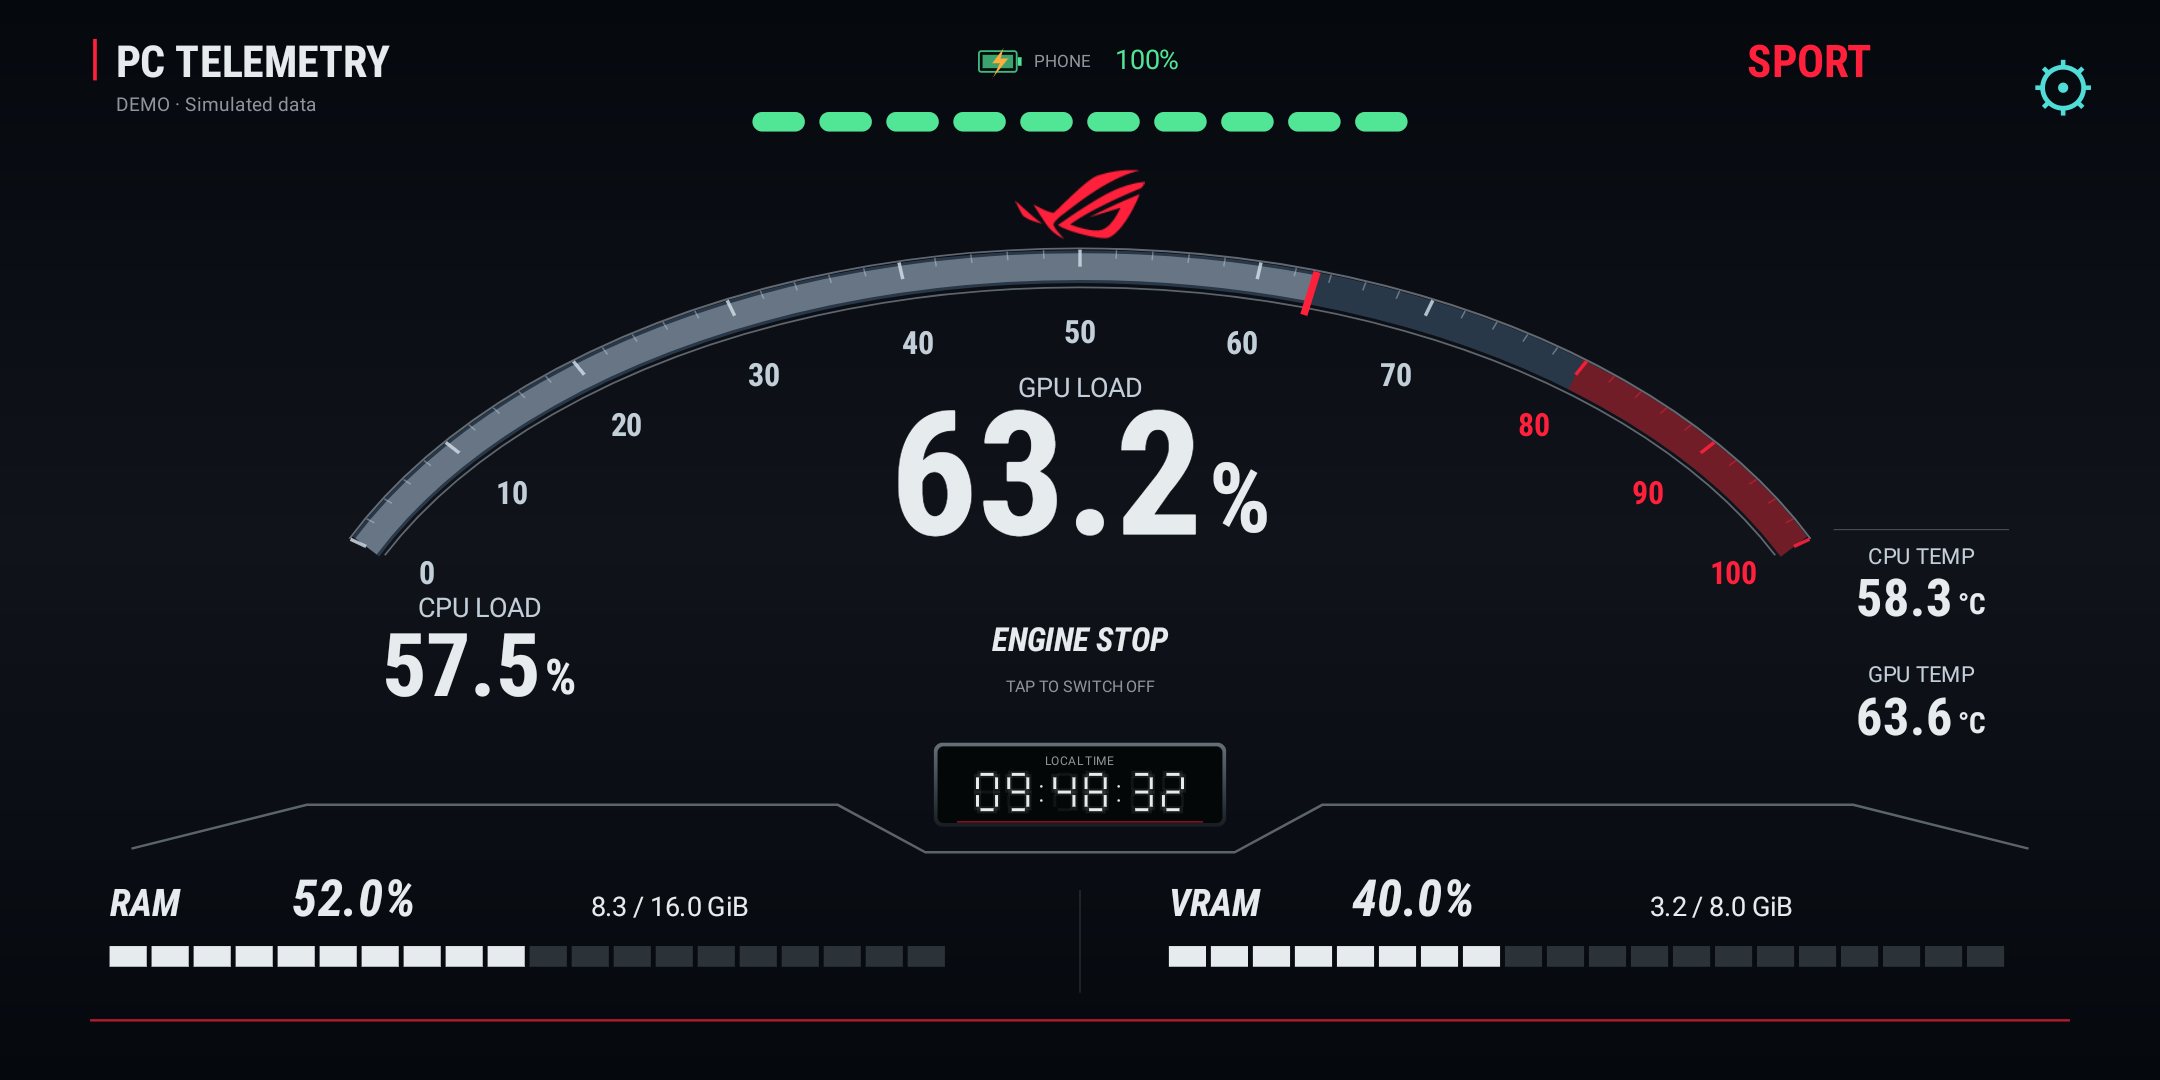
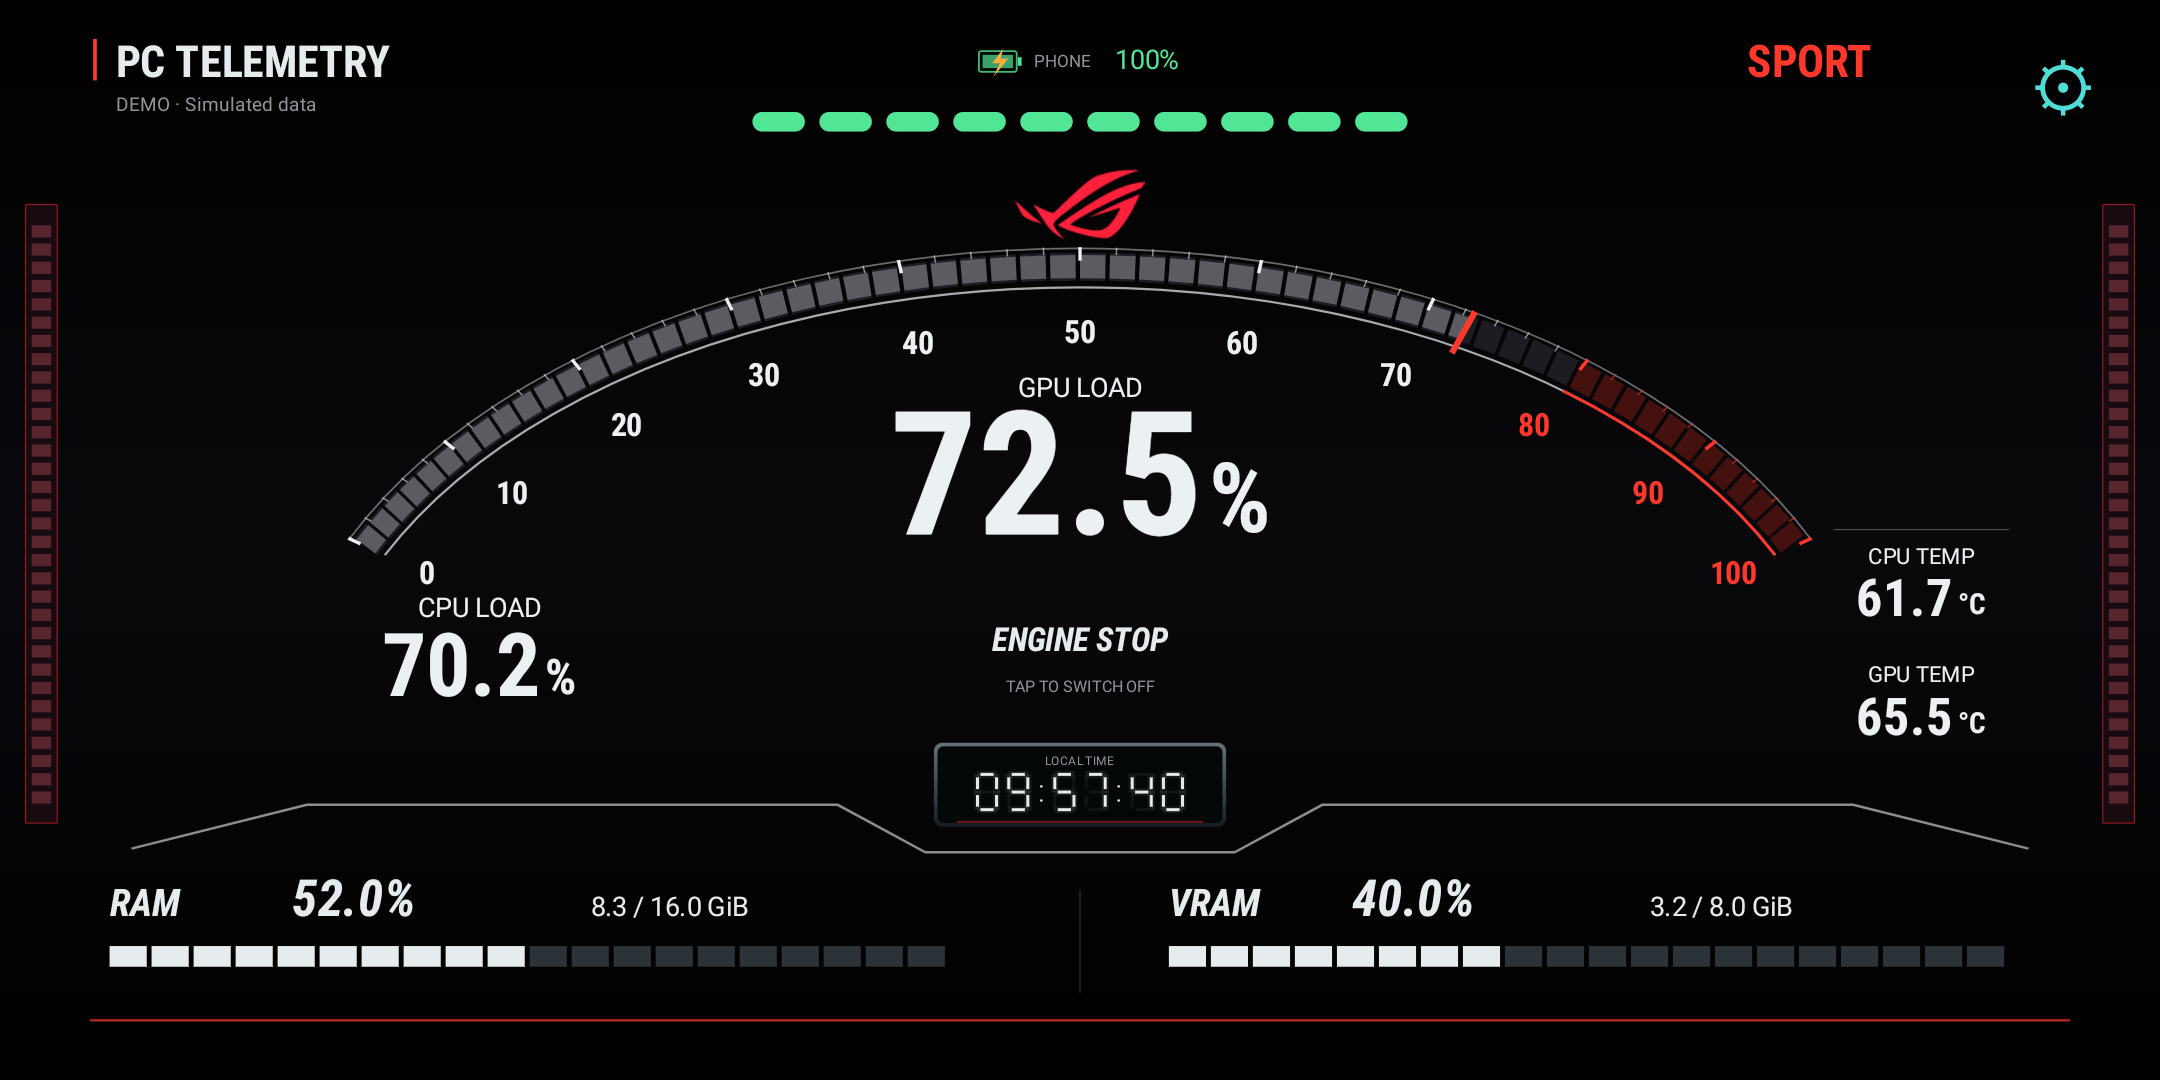
Match SPORT palettes and clarify microphone meters

diff --git a/android/app/src/main/kotlin/com/pctelemetry/dashboard/SportPresets.kt b/android/app/src/main/kotlin/com/pctelemetry/dashboard/SportPresets.kt
@@ -36,10 +36,16 @@ internal val SportPreset.gpuPosition: SportReadingPosition
         SportPreset.TOURING -> SportReadingPosition(1322f, 465f, 94f, 1322f, 549f)
     }
 
-private val Steel = Color(0xFFC2CED8)
-private val WingBlue = Color(0xFF82ACDB)
-private val Track = Color(0xFF293849)
-private val Dark = Color(0xFF05080D)
+private val StoWhite = Color(0xFFEDF0F2)
+private val StoRed = Color(0xFFFF382B)
+private val WingWhite = Color(0xFFF3EEE4)
+private val WingRed = Color(0xFFFF4B2F)
+internal val SportPreset.readingColor: Color
+    get() = when (this) {
+        SportPreset.CLASSIC -> White
+        SportPreset.APEX -> StoWhite
+        SportPreset.TOURING -> WingWhite
+    }
 private const val ApexStart = 205f
 private const val ApexSweep = 130f
 
@@ -49,8 +55,9 @@ internal fun SportPresetBackdrop(preset: SportPreset, paint: Paint, detail: Pain
     Canvas(Modifier.fillMaxSize().graphicsLayer { compositingStrategy = CompositingStrategy.Offscreen }) {
         design {
             val apex = preset == SportPreset.APEX
-            val accent = if (apex) Red else WingBlue
-            drawRect(Brush.verticalGradient(listOf(Dark, if (apex) Color(0xFF10131A) else Color(0xFF101C32), Dark),
+            val accent = if (apex) StoRed else WingWhite
+            drawRect(Brush.verticalGradient(listOf(Color.Black,
+                if (apex) Color(0xFF09090C) else Color(0xFF090A1A), Color.Black),
                 endY = HEIGHT), size = Size(WIDTH, HEIGHT))
             if (apex) apexBackdrop(paint, detail, preset.cpuPosition, preset.gpuPosition)
             else wingBackdrop(paint, detail, preset.cpuPosition, preset.gpuPosition)
@@ -77,16 +84,22 @@ private fun DrawScope.apexArc(inset: Float, start: Float, sweep: Float, color: C
 }
 
 private fun DrawScope.apexBackdrop(paint: Paint, detail: Paint, cpu: SportReadingPosition, gpu: SportReadingPosition) {
-    apexArc(0f, ApexStart, ApexSweep, Track, 27f)
-    apexArc(-15f, ApexStart, ApexSweep, Steel.copy(alpha = .47f), 1.6f)
-    apexArc(17f, ApexStart, ApexSweep, Steel.copy(alpha = .45f), 1.5f)
-    apexArc(0f, ApexStart + ApexSweep * .8f, ApexSweep * .2f, Color(0xFF701D27), 27f)
+    apexArc(-15f, ApexStart, ApexSweep, StoWhite.copy(alpha = .44f), 1.4f)
+    apexArc(17f, ApexStart, ApexSweep, StoWhite.copy(alpha = .70f), 1.8f)
+    apexArc(17f, ApexStart + ApexSweep * .8f, ApexSweep * .2f, StoRed, 2.4f)
+    for (index in 0 until 60) {
+        val start = ApexStart + index * ApexSweep / 60f
+        val redZone = index >= 48
+        apexArc(0f, start, ApexSweep / 60f - .32f,
+            if (redZone) Color(0xFF44110E) else Color(0xFF1C1C22), 23f)
+    }
     for (tick in 0..50) {
         val angle = ApexStart + tick * ApexSweep / 50
         val major = tick % 5 == 0
-        val color = if (tick >= 40) Red else Steel
-        drawLine(color.copy(alpha = if (major) .9f else .44f),
-            apexPoint(angle, -14f), apexPoint(angle, if (major) 0f else -7f), if (major) 2.8f else 1.2f)
+        val color = if (tick >= 40) StoRed else StoWhite
+        drawLine(color.copy(alpha = if (major) 1f else .58f),
+            apexPoint(angle, -16f), apexPoint(angle, if (major) -5f else -10f),
+            if (major) 2.8f else 1.2f, cap = StrokeCap.Butt)
         if (major) {
             val p = apexPoint(angle, 55f)
             label(paint, (tick * 2).toString(), p.x, p.y + 8f, 26f, color, true)
@@ -94,12 +107,12 @@ private fun DrawScope.apexBackdrop(paint: Paint, detail: Paint, cpu: SportReadin
     }
     val lowerBand = linePath(listOf(Offset(108f, 697f), Offset(252f, 661f), Offset(688f, 661f),
         Offset(760f, 700f), Offset(1014f, 700f), Offset(1086f, 661f), Offset(1522f, 661f), Offset(1666f, 697f)))
-    drawPath(lowerBand, Steel.copy(alpha = .45f), style = Stroke(2f))
-    label(detail, "GPU LOAD", gpu.x, 326f, 22f, Steel, true)
-    label(detail, "CPU LOAD", cpu.x, 507f, 22f, Steel, true)
-    drawLine(Steel.copy(alpha = .35f), Offset(1506f, 435f), Offset(1650f, 435f))
-    label(detail, "CPU TEMP", cpu.temperatureX, 463f, 18f, Steel, true)
-    label(detail, "GPU TEMP", gpu.temperatureX, 560f, 18f, Steel, true)
+    drawPath(lowerBand, StoWhite.copy(alpha = .58f), style = Stroke(2f, join = StrokeJoin.Miter))
+    label(detail, "GPU LOAD", gpu.x, 326f, 22f, StoWhite, true)
+    label(detail, "CPU LOAD", cpu.x, 507f, 22f, StoWhite, true)
+    drawLine(StoWhite.copy(alpha = .35f), Offset(1506f, 435f), Offset(1650f, 435f))
+    label(detail, "CPU TEMP", cpu.temperatureX, 463f, 18f, StoWhite, true)
+    label(detail, "GPU TEMP", gpu.temperatureX, 560f, 18f, StoWhite, true)
 }
 
 private fun linePath(points: List<Offset>) = Path().apply {
@@ -130,21 +143,21 @@ private fun DrawScope.wingBackdrop(paint: Paint, detail: Paint, cpu: SportReadin
         lineTo(1408f, 167f); quadraticTo(1627f, 171f, 1686f, 330f)
         lineTo(1686f, 570f); lineTo(1574f, 694f); lineTo(200f, 694f); lineTo(88f, 570f); close()
     }
-    drawPath(outer, Brush.verticalGradient(listOf(Color(0xFF18243A), Color(0xFF0A101C)), 167f, 694f))
-    drawPath(outer, Steel.copy(alpha = .22f), style = Stroke(2f))
+    drawPath(outer, Brush.verticalGradient(listOf(Color(0xFF15162F), Color(0xFF191D43), Color(0xFF0C1025)), 167f, 694f))
+    drawPath(outer, WingWhite.copy(alpha = .24f), style = Stroke(1.5f, join = StrokeJoin.Miter))
     wingScale(paint, LeftWing, false)
     wingScale(paint, RightWing, true)
-    label(detail, "CPU LOAD", cpu.x, 373f, 21f, Steel, true)
-    label(detail, "GPU LOAD", gpu.x, 373f, 21f, Steel, true)
+    label(detail, "CPU LOAD", cpu.x, 373f, 21f, WingWhite, true)
+    label(detail, "GPU LOAD", gpu.x, 373f, 21f, WingWhite, true)
     for (center in listOf(cpu.x, gpu.x)) {
-        drawLine(Steel.copy(alpha = .35f), Offset(center - 108f, 496f), Offset(center + 108f, 496f))
+        drawLine(WingWhite.copy(alpha = .35f), Offset(center - 108f, 496f), Offset(center + 108f, 496f))
     }
 }
 
 private fun DrawScope.wingScale(paint: Paint, measure: PathMeasure, mirror: Boolean) {
-    drawMeasuredWing(measure, 0f, 100f, Track, 35f)
-    drawMeasuredWing(measure, 0f, 100f, Steel.copy(alpha = .72f), 2f)
-    drawMeasuredWing(measure, 80f, 100f, Red.copy(alpha = .4f), 10f)
+    drawMeasuredWing(measure, 0f, 100f, Color(0xFF25284A), 19f)
+    drawMeasuredWing(measure, 0f, 100f, WingWhite.copy(alpha = .72f), 2f)
+    drawMeasuredWing(measure, 80f, 100f, WingRed, 3f)
     for (tick in 0..20) {
         val fraction = tick / 20f
         val distance = measure.length * fraction
@@ -152,8 +165,9 @@ private fun DrawScope.wingScale(paint: Paint, measure: PathMeasure, mirror: Bool
         val tangent = measure.getTangent(distance)
         val inward = if (mirror) Offset(tangent.y, -tangent.x) else Offset(-tangent.y, tangent.x)
         val major = tick % 4 == 0
-        val color = if (tick >= 16) Red else Steel
-        drawLine(color, pos + inward * 14f, pos + inward * (if (major) 30f else 22f), if (major) 2.5f else 1.4f)
+        val color = if (tick >= 16) WingRed else WingWhite
+        drawLine(color.copy(alpha = if (major) 1f else .62f), pos + inward * 10f,
+            pos + inward * (if (major) 28f else 17f), if (major) 2.6f else 1.4f, cap = StrokeCap.Butt)
         if (major) {
             val marker = pos + inward * 49f
             label(paint, (tick * 5).toString(), marker.x, marker.y + 7f, 22f, color, true)
@@ -165,27 +179,34 @@ private fun DrawScope.drawMeasuredWing(measure: PathMeasure, from: Float, to: Fl
     if (to <= from) return
     val path = Path()
     measure.getSegment(measure.length * from / 100f, measure.length * to / 100f, path, true)
-    drawPath(path, color, style = Stroke(width, cap = StrokeCap.Butt, join = StrokeJoin.Round))
+    drawPath(path, color, style = Stroke(width, cap = StrokeCap.Butt, join = StrokeJoin.Miter))
 }
 
 internal fun DrawScope.sportPresetLoad(preset: SportPreset, cpu: Float?, gpu: Float?) {
     if (preset == SportPreset.APEX) {
         gpu?.coerceIn(0f, 100f)?.let { value ->
             val sweep = value * ApexSweep / 100f
-            if (sweep > 0f) apexArc(0f, ApexStart, sweep, Color(0xFFD3DFEA).copy(alpha = .37f), 22f)
+            for (index in 0 until 60) {
+                val start = index * ApexSweep / 60f
+                val length = (sweep - start).coerceIn(0f, ApexSweep / 60f - .32f)
+                if (length <= 0f) break
+                apexArc(0f, ApexStart + start, length,
+                    if (index >= 48) StoRed.copy(alpha = .63f) else StoWhite.copy(alpha = .30f), 19f)
+            }
             val angle = ApexStart + sweep
-            drawLine(Red, apexPoint(angle, -14f), apexPoint(angle, 23f), 6f)
+            drawLine(StoRed, apexPoint(angle, -16f), apexPoint(angle, 23f), 5f, cap = StrokeCap.Butt)
         }
     } else {
         for ((measure, sample) in listOf(LeftWing to cpu, RightWing to gpu)) {
             val value = sample?.coerceIn(0f, 100f) ?: continue
-            drawMeasuredWing(measure, 0f, value, WingBlue.copy(alpha = .57f), 20f)
-            drawMeasuredWing(measure, 0f, value, Steel, 2f)
+            drawMeasuredWing(measure, 0f, value, WingWhite.copy(alpha = .22f), 12f)
+            drawMeasuredWing(measure, 0f, value.coerceAtMost(80f), WingWhite, 3f)
+            drawMeasuredWing(measure, 80f, value, WingRed, 4f)
             val distance = measure.length * value / 100f
             val point = measure.getPosition(distance)
             val tangent = measure.getTangent(distance)
             val normal = Offset(-tangent.y, tangent.x)
-            drawLine(Red, point - normal * 16f, point + normal * 29f, 5f)
+            drawLine(WingRed, point - normal * 12f, point + normal * 26f, 4f, cap = StrokeCap.Butt)
         }
     }
 }

diff --git a/android/app/src/main/kotlin/com/pctelemetry/dashboard/NativeInstruments.kt b/android/app/src/main/kotlin/com/pctelemetry/dashboard/NativeInstruments.kt
@@ -122,8 +122,8 @@ fun SportDashboard(values: InstrumentValues, state: DashboardState, status: Stri
             } else {
                 sportPresetLoad(preset, cpuNeedle, gpuNeedle)
             }
-            reading(instruments, cpu, cpuPosition.x, cpuPosition.loadY, cpuPosition.loadSize)
-            reading(instruments, gpu, gpuPosition.x, gpuPosition.loadY, gpuPosition.loadSize)
+            reading(instruments, cpu, cpuPosition.x, cpuPosition.loadY, cpuPosition.loadSize, preset.readingColor)
+            reading(instruments, gpu, gpuPosition.x, gpuPosition.loadY, gpuPosition.loadSize, preset.readingColor)
             if (selfTest == null && state.snapshot?.metrics?.cpuUsage?.status == "stale")
                 label(paint, staleLabel, cpuPosition.x, cpuPosition.loadY + staleOffset, 23f, Orange, true)
             if (selfTest == null && state.snapshot?.metrics?.gpuUsage?.status == "stale")
@@ -132,10 +132,10 @@ fun SportDashboard(values: InstrumentValues, state: DashboardState, status: Stri
             val gpuTemp = number(sweep(values.gpuTemp), "°C") + if (selfTest == null) staleSuffix(state.snapshot?.metrics?.gpuTemperature?.status, staleLabel) else ""
             if (selfTest == null && state.snapshot?.metrics?.cpuTemperature?.status == "stale")
                 label(instruments, cpuTemp, cpuPosition.temperatureX, cpuPosition.temperatureY, 43f, center = true)
-            else reading(instruments, sweep(values.cpuTemp), cpuPosition.temperatureX, cpuPosition.temperatureY, 43f, unit = "°C")
+            else reading(instruments, sweep(values.cpuTemp), cpuPosition.temperatureX, cpuPosition.temperatureY, 43f, preset.readingColor, unit = "°C")
             if (selfTest == null && state.snapshot?.metrics?.gpuTemperature?.status == "stale")
                 label(instruments, gpuTemp, gpuPosition.temperatureX, gpuPosition.temperatureY, 43f, center = true)
-            else reading(instruments, sweep(values.gpuTemp), gpuPosition.temperatureX, gpuPosition.temperatureY, 43f, unit = "°C")
+            else reading(instruments, sweep(values.gpuTemp), gpuPosition.temperatureX, gpuPosition.temperatureY, 43f, preset.readingColor, unit = "°C")
             label(detailPaint, status + if (selfTest != null) " · STARTUP SELF TEST" else "", 95f, 91f, 16f,
                 if (selfTest != null) Orange else if (state.isOffline) Red else Silver)
             label(paint, "ENGINE STOP", 887f, 535f, 27f, White, true, 190f)

diff --git a/android/app/src/main/kotlin/com/pctelemetry/dashboard/MicrophoneMeter.kt b/android/app/src/main/kotlin/com/pctelemetry/dashboard/MicrophoneMeter.kt
@@ -111,20 +111,25 @@ internal fun rememberMicrophoneMeter(enabled: Boolean, sensitivity: Int): State<
 }
 
 @Composable
-internal fun SportMicrophoneBars(reading: MicrophoneReading, modifier: Modifier = Modifier) {
+internal fun SportMicrophoneBars(reading: MicrophoneReading, preset: SportPreset, modifier: Modifier = Modifier) {
     val description = stringResource(if (reading.failed) R.string.microphone_unavailable
         else if (reading.capturing) R.string.microphone_active else R.string.microphone_starting)
     Canvas(modifier.fillMaxSize().testTag("sport-microphone-meter").semantics { stateDescription = description }) {
         design {
             val lit = ((reading.level ?: 0f) * 32).toInt()
             val gradient = Brush.verticalGradient(listOf(Color(0xFFFF7789), Red, Color(0xFF74051A)), 180f, 660f)
+            val classic = preset == SportPreset.CLASSIC
+            val frameRadius = CornerRadius(if (classic) 5f else 1f)
+            val segmentRadius = CornerRadius(if (classic) 2f else 0f)
+            val idle = if (classic) Color(0xFF39121D) else Color(0xFF58252E)
             for (x in listOf(26f, 1732f)) {
-                drawRoundRect(Color(0xFF170B10), Offset(x - 5, 168f), Size(26f, 508f), CornerRadius(5f))
-                drawRoundRect(Red.copy(alpha = 0.3f), Offset(x - 5, 168f), Size(26f, 508f), CornerRadius(5f), style = Stroke(1f))
+                drawRoundRect(Color(0xFF170B10), Offset(x - 5, 168f), Size(26f, 508f), frameRadius)
+                drawRoundRect(Red.copy(alpha = if (classic) .3f else .55f),
+                    Offset(x - 5, 168f), Size(26f, 508f), frameRadius, style = Stroke(1f))
                 for (index in 0..31) {
                     val origin = Offset(x, 650f - index * 15f)
-                    if (index < lit) drawRoundRect(gradient, origin, Size(16f, 10f), CornerRadius(2f))
-                    else drawRoundRect(Color(0xFF39121D), origin, Size(16f, 10f), CornerRadius(2f))
+                    if (index < lit) drawRoundRect(gradient, origin, Size(16f, 10f), segmentRadius)
+                    else drawRoundRect(idle, origin, Size(16f, 10f), segmentRadius)
                 }
             }
         }

diff --git a/android/app/src/androidTest/kotlin/com/pctelemetry/dashboard/MicrophoneInstrumentedTest.kt b/android/app/src/androidTest/kotlin/com/pctelemetry/dashboard/MicrophoneInstrumentedTest.kt
@@ -89,6 +89,16 @@ class MicrophoneInstrumentedTest {
         rule.onNodeWithTag("settings-close").assertIsDisplayed().performClick()
         save("sport-microphone.png")
 
+        for ((option, file) in listOf("Apex" to "sport-preset-apex.png", "Twin Wing" to "sport-preset-twin-wing.png")) {
+            rule.onNodeWithContentDescription("Settings").performClick()
+            rule.onNodeWithTag("settings-tab-display").performClick()
+            rule.onNodeWithText(option).performScrollTo().performClick().assertIsSelected()
+            rule.onNodeWithTag("settings-close").performClick()
+            rule.onNodeWithTag("sport-microphone-meter").assertIsDisplayed()
+            assertEquals(sessions, audio.activeRecordingConfigurations.map { it.clientAudioSessionId }.toSet())
+            save(file)
+        }
+
         rule.onNodeWithContentDescription("SPORT dashboard").performTouchInput { swipeLeft() }
         rule.onNodeWithContentDescription("HUD dashboard").assertExists()
         rule.onNodeWithTag("sport-microphone-meter").assertDoesNotExist()

diff --git a/android/app/src/main/kotlin/com/pctelemetry/dashboard/MainActivity.kt b/android/app/src/main/kotlin/com/pctelemetry/dashboard/MainActivity.kt
@@ -203,7 +203,7 @@ private fun Dashboard(model: DashboardViewModel, settings: UiSettings) {
                         }, rogBranding = settings.rogBranding, phone = phone,
                         onEngineStop = { sportEngineOff = true; selfTest = false; panel = false; pairing = false },
                         selfTestRecovery = startupRecovery.value, preset = settings.sportPreset)
-                    if (settings.microphoneMeter) SportMicrophoneBars(microphone, instruments)
+                    if (settings.microphoneMeter) SportMicrophoneBars(microphone, settings.sportPreset, instruments)
                 }
             }
         } else {
